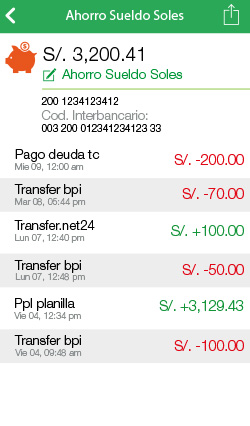
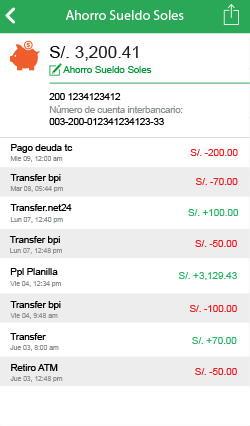
se implemetaron los botones para apple y se esta programando las flechas para regresar a la pantalla anterior

diff --git a/js/simulador.js b/js/simulador.js
@@ -1,5 +1,5 @@
 
-var  vista1, conteCuentas, frecuente, conteLogin, opeVista1, opeVista3, opeVista4, conteOperaciones, btnSiguiente, vista2, guia, guiaO, ahorroS, btnCuentas, btnMapa, btnCuentasOver, btnOperaciones, opeVista2, btnOperacionesOver, btnUs, conteMenu, vista3, pagosCyL, ubicacion1, ubicacion2, ubicacion3, btnUbicanos, btnSeguridad, btnComp, opeVista5, confirmarPago, vista4, btnCorreo, seg1, mandarEmail, animarMenu, conteUbicanos, btnTienda, btnNumCuentas, opt1, opt2, otd2, otd4, otd5, btnUbicanosOver, vistaT3, ahorroAsoles, aAmex, agilS, amex, transfDinero,btnSeguridadOver, btnPtajeta, btnTdinero1, btnTdinero2, btnTdinero5, otd3, btnTdinero3, btnTdinero3, conteSeguridad, btnSiguiente2, btnTdinero6, btnColor, btnColorsito, btnSiguienteSeguridad, otd6, btnTdinero7, opt4, opt5, otd1,prr;
+var  vista1, conteCuentas, frecuente, conteLogin, btnAtras1, opeVista1, opeVista3, opeVista4, conteOperaciones, btnSiguiente, vista2, guia, guiaO, ahorroS, btnCuentas, btnMapa, btnCuentasOver, btnOperaciones, opeVista2, btnOperacionesOver, btnUs, conteMenu, vista3, pagosCyL, ubicacion1, ubicacion2, ubicacion3, btnUbicanos, btnSeguridad, btnComp, opeVista5, confirmarPago, vista4, btnCorreo, seg1, mandarEmail, animarMenu, conteUbicanos, btnTienda, btnNumCuentas, opt1, opt2, otd2, otd4, otd5, btnUbicanosOver, vistaT3, ahorroAsoles, aAmex, agilS, amex, transfDinero,btnSeguridadOver, btnPtajeta, btnTdinero1, btnTdinero2, btnTdinero5, otd3, btnTdinero3, btnTdinero3, conteSeguridad, btnSiguiente2, btnTdinero6, btnColor, btnColorsito, btnSiguienteSeguridad, otd6, btnTdinero7, opt4, opt5, otd1,prr;
 var $os = 'apple';
 var path;
 var myGuia;
@@ -258,20 +258,27 @@ $(document).ready(function(){
 			 cursor: "pointer",
 			 x: 542, y: 60, scaleX: 120, scaleY: 20, alpha: alphaBotones
 			});
-			btnComp = new createjs.Bitmap(preload.getResult("btn")).set({
-			 cursor: "pointer",
-			 x: 715, y: 0, scaleX: 35, scaleY: 32, alpha: alphaBotones
-			});
+
+			if($os=='android'){
+				btnAtras1 = new createjs.Bitmap(preload.getResult("btn")).set({cursor: "pointer",x: 500, y:-50, scaleX: 30, scaleY: 32, alpha: alphaBotones});
+			}else{
+				btnAtras1 = new createjs.Bitmap(preload.getResult("btn")).set({cursor: "pointer",x: 500, y:0, scaleX: 30, scaleY: 32, alpha: alphaBotones});
+			}
+
+			btnComp = new createjs.Bitmap(preload.getResult("btn")).set({cursor: "pointer",x: 715, y:0, scaleX: 35, scaleY: 32, alpha: alphaBotones});
 
 			conteCuentas.addChild(vista3);
 			conteCuentas.addChild(btnNumCuentas);
 			conteCuentas.addChild(btnComp);
+			conteCuentas.addChild(btnAtras1);
 
 			conteCuentas.x = -500;
 			vista3.x = 500;
 
 			guia.x = 735; guia.y = 17; 
 			conteCuentas.addChild(guia);
+
+			
 
 			btnComp.on("click", cuentasEscena3);
 			btnNumCuentas.on("click", colores);
@@ -324,6 +331,10 @@ $(document).ready(function(){
 			 cursor: "pointer",
 			 x: 542, y: 70, scaleX: 80, scaleY: 20, alpha: alphaBotones
 			});
+			btnAtras2 = new createjs.Bitmap(preload.getResult("btn")).set({
+			 cursor: "pointer",
+			 x: 500, y: 0, scaleX: 30, scaleY: 32, alpha: alphaBotones
+			});
 			btnComp = new createjs.Bitmap(preload.getResult("btn")).set({
 			 cursor: "pointer",
 			 x: 715, y: 0, scaleX: 35, scaleY: 32, alpha: alphaBotones
@@ -332,6 +343,7 @@ $(document).ready(function(){
 			conteCuentas.addChild(vista3);
 			conteCuentas.addChild(btnNumCuentas);
 			conteCuentas.addChild(btnComp);
+			conteCuentas.addChild(btnAtras2);
 
 			conteCuentas.x = -500;
 			vista3.x = 500;
@@ -368,6 +380,10 @@ $(document).ready(function(){
 			 cursor: "pointer",
 			 x: 542, y: 70, scaleX: 150, scaleY: 20, alpha: alphaBotones
 			});
+			btnAtras3 = new createjs.Bitmap(preload.getResult("btn")).set({
+			 cursor: "pointer",
+			 x: 500, y: 0, scaleX: 30, scaleY: 32, alpha: alphaBotones
+			});
 			btnComp = new createjs.Bitmap(preload.getResult("btn")).set({
 			 cursor: "pointer",
 			 x: 715, y: 0, scaleX: 35, scaleY: 32, alpha: alphaBotones
@@ -376,6 +392,7 @@ $(document).ready(function(){
 			conteCuentas.addChild(vista3);
 			conteCuentas.addChild(btnNumCuentas);
 			conteCuentas.addChild(btnComp);
+			conteCuentas.addChild(btnAtras3);
 
 			conteCuentas.x = -500;
 			vista3.x = 500;
@@ -537,17 +554,16 @@ $(document).ready(function(){
 		function OperacionTarjeta3 () {
 			opt3 = new createjs.Bitmap(preload.getResult("vistaT3"));
 
-
-
 			if ($os == 'android') {
 				btnSiguiente2 = new createjs.Bitmap(preload.getResult("btn")).set({
 				 cursor: "pointer",
 				 x: 1520, y: 227, scaleX:210, scaleY:28, alpha: alphaBotones
 				});
 			} else{
+				console.log("estoy a ki ---")
 				btnSiguiente2 = new createjs.Bitmap(preload.getResult("btn")).set({
 				 cursor: "pointer",
-				 x: 1520, y: 320, scaleX:210, scaleY:35, alpha: alphaBotones
+				 x: 1525, y: 320, scaleX:205, scaleY:35, alpha: alphaBotones
 				});
 			};
 
@@ -565,10 +581,19 @@ $(document).ready(function(){
 
 		function OperacionTarjeta4(){
 			opt4 = new createjs.Bitmap(preload.getResult("vistaT4"));
-			btnSiguiente3 = new createjs.Bitmap(preload.getResult("btn")).set({
-			 cursor: "pointer",
-			 x: 1770, y: 351, scaleX:210, scaleY:28, alpha: alphaBotones
-			});
+
+			if ($os == 'android') {
+				btnSiguiente3 = new createjs.Bitmap(preload.getResult("btn")).set({
+				 cursor: "pointer",
+				 x: 1770, y: 351, scaleX:210, scaleY:28, alpha: alphaBotones
+				});
+			} else{
+				btnSiguiente3 = new createjs.Bitmap(preload.getResult("btn")).set({
+				 cursor: "pointer",
+				 x: 1780, y: 340, scaleX:205, scaleY:32, alpha: alphaBotones
+				});
+			};
+
 
 			guia.x = 1950; guia.y = 367;
 
@@ -602,11 +627,18 @@ $(document).ready(function(){
 			opeVista2.x = 250;
 			conteOperaciones.x = -250;
 
-			btnSiguiente = new createjs.Bitmap(preload.getResult("btn")).set({
-			 cursor: "pointer",
-			 x: 270, y: 346, scaleX:210, scaleY:32, alpha: alphaBotones
-			});
-			
+			if ($os == 'android') {
+				btnSiguiente = new createjs.Bitmap(preload.getResult("btn")).set({
+				 cursor: "pointer",
+				 x: 270, y: 346, scaleX:210, scaleY:32, alpha: alphaBotones
+				});
+			} else{
+				btnSiguiente = new createjs.Bitmap(preload.getResult("btn")).set({
+				 cursor: "pointer",
+				 x: 275, y: 340, scaleX:198, scaleY:32, alpha: alphaBotones
+				});
+			};
+
 			conteOperaciones.addChild(btnSiguiente);
 
 			guia.x = 450; guia.y = 363;
@@ -620,10 +652,17 @@ $(document).ready(function(){
 			opeVista3 = new createjs.Bitmap(preload.getResult("opeVista3"));
 			conteOperaciones.addChild(opeVista3);
 
-			ahorroS = new createjs.Bitmap(preload.getResult("btn")).set({
-			 cursor: "pointer",
-			 x: 505, y: 60, scaleX: 233, scaleY: 44, alpha: alphaBotones
-			});
+			if ($os == 'android') {
+				ahorroS = new createjs.Bitmap(preload.getResult("btn")).set({
+				 cursor: "pointer",
+				 x: 505, y: 60, scaleX: 233, scaleY: 44, alpha: alphaBotones
+				});
+			} else{
+				ahorroS = new createjs.Bitmap(preload.getResult("btn")).set({
+				 cursor: "pointer",
+				 x: 505, y: 65, scaleX: 233, scaleY: 44, alpha: alphaBotones
+				});
+			};
 
 			conteOperaciones.addChild(ahorroS);
 			
@@ -641,10 +680,19 @@ $(document).ready(function(){
 			opeVista4 = new createjs.Bitmap(preload.getResult("opeVista4"));
 			conteOperaciones.addChild(opeVista4);
 
-			confirmarPago = new createjs.Bitmap(preload.getResult("btn")).set({
-			 cursor: "pointer",
-			 x: 520, y: 352, scaleX: 210, scaleY: 28, alpha: alphaBotones
-			});
+			if ($os == 'android') {
+				confirmarPago = new createjs.Bitmap(preload.getResult("btn")).set({
+				 cursor: "pointer",
+				 x: 520, y: 352, scaleX: 210, scaleY: 28, alpha: alphaBotones
+				});
+			} else{
+				confirmarPago = new createjs.Bitmap(preload.getResult("btn")).set({
+				 cursor: "pointer",
+				 x: 530, y: 340, scaleX: 190, scaleY: 28, alpha: alphaBotones
+				});
+			};
+
+			
 			conteOperaciones.addChild(confirmarPago);
 
 			opeVista4.x = 500;
@@ -701,14 +749,26 @@ $(document).ready(function(){
 
     	function operacionesTransferir1 () {
     		otd1 = new createjs.Bitmap(preload.getResult("vistaTdinero1"));
-			btnTdinero1 = new createjs.Bitmap(preload.getResult("btn")).set({
-			cursor: "pointer",
-			x: 2250, y: 58,scaleX: 250, scaleY: 49, alpha: alphaBotones
-			});
-			btnTdinero2 = new createjs.Bitmap(preload.getResult("btn")).set({
-			cursor: "pointer",
-			x: 2250, y: 110,scaleX: 250, scaleY: 49, alpha: alphaBotones
-			});
+
+    		if ($os == 'android') {
+				btnTdinero1 = new createjs.Bitmap(preload.getResult("btn")).set({
+				cursor: "pointer",
+				x: 2250, y: 58,scaleX: 250, scaleY: 49, alpha: alphaBotones
+				});
+				btnTdinero2 = new createjs.Bitmap(preload.getResult("btn")).set({
+				cursor: "pointer",
+				x: 2250, y: 150,scaleX: 250, scaleY: 49, alpha: alphaBotones
+				});
+			} else{
+				btnTdinero1 = new createjs.Bitmap(preload.getResult("btn")).set({
+				cursor: "pointer",
+				x: 2250, y: 70,scaleX: 250, scaleY: 49, alpha: alphaBotones
+				});
+				btnTdinero2 = new createjs.Bitmap(preload.getResult("btn")).set({
+				cursor: "pointer",
+				x: 2250, y: 130,scaleX: 250, scaleY: 49, alpha: alphaBotones
+				});
+			};
 			
     		otd1.x = 2250;
 			conteOperaciones.x = -2250;
@@ -724,14 +784,26 @@ $(document).ready(function(){
 
     	function operacionesTransferir2 () {
     		otd2 = new createjs.Bitmap(preload.getResult("vistaTdinero2"));
-			btnTdinero3 = new createjs.Bitmap(preload.getResult("btn")).set({
-			cursor: "pointer",
-			x: 2500, y: 56,scaleX: 250, scaleY: 45, alpha: alphaBotones
-			});
-			btnTdinero4 = new createjs.Bitmap(preload.getResult("btn")).set({
-			cursor: "pointer",
-			x: 2500, y: 115,scaleX: 250, scaleY: 47, alpha: alphaBotones
-			});
+
+    		if ($os == 'android') {
+				btnTdinero3 = new createjs.Bitmap(preload.getResult("btn")).set({
+				cursor: "pointer",
+				x: 2500, y: 56,scaleX: 250, scaleY: 45, alpha: alphaBotones
+				});
+				btnTdinero4 = new createjs.Bitmap(preload.getResult("btn")).set({
+				cursor: "pointer",
+				x: 2500, y: 115,scaleX: 250, scaleY: 47, alpha: alphaBotones
+				});
+			} else{
+				btnTdinero3 = new createjs.Bitmap(preload.getResult("btn")).set({
+				cursor: "pointer",
+				x: 2500, y: 70,scaleX: 250, scaleY: 45, alpha: alphaBotones
+				});
+				btnTdinero4 = new createjs.Bitmap(preload.getResult("btn")).set({
+				cursor: "pointer",
+				x: 2500, y: 160,scaleX: 250, scaleY: 47, alpha: alphaBotones
+				});
+			};
 
     		otd2.x = 2500;
 			conteOperaciones.x = -2500;
@@ -765,14 +837,22 @@ $(document).ready(function(){
     	}
     	function operacionesTransferir4() {
     		otd4 = new createjs.Bitmap(preload.getResult("vistaTdinero4"));
-			btnTdinero6 = new createjs.Bitmap(preload.getResult("btn")).set({
-			cursor: "pointer",
-			x: 3020, y: 176,scaleX:210, scaleY:28, alpha: alphaBotones
-			});
+
+    		if ($os == 'android') {
+				btnTdinero6 = new createjs.Bitmap(preload.getResult("btn")).set({
+				cursor: "pointer",
+				x: 3020, y: 176,scaleX:210, scaleY:28, alpha: alphaBotones
+				});
+			} else{
+				btnTdinero6 = new createjs.Bitmap(preload.getResult("btn")).set({
+				cursor: "pointer",
+				x: 3028, y: 193,scaleX:200, scaleY:28, alpha: alphaBotones
+				});
+			};
 
     		otd4.x = 3000;
 			conteOperaciones.x = -3000;
-		    guia.x = 3200; guia.y = 190;
+		    guia.x = 3200; guia.y = 210;
 
 			conteOperaciones.addChild(otd4);
 			conteOperaciones.addChild(btnTdinero6);
@@ -783,14 +863,22 @@ $(document).ready(function(){
     	}
     	function operacionesTransferir5() {
     		otd5 = new createjs.Bitmap(preload.getResult("vistaTdinero5"));
-			btnTdinero7 = new createjs.Bitmap(preload.getResult("btn")).set({
-			cursor: "pointer",
-			x: 3270, y: 352,scaleX:210, scaleY:28, alpha: alphaBotones
-			});
+
+    		if ($os == 'android') {
+				btnTdinero7 = new createjs.Bitmap(preload.getResult("btn")).set({
+				cursor: "pointer",
+				x: 3270, y: 352,scaleX:210, scaleY:28, alpha: alphaBotones
+				});
+			} else{
+				btnTdinero7 = new createjs.Bitmap(preload.getResult("btn")).set({
+				cursor: "pointer",
+				x: 3278, y: 335,scaleX:200, scaleY:32, alpha: alphaBotones
+				});
+			};
 
     		otd5.x = 3250;
 			conteOperaciones.x = -3250;
-		    guia.x = 3450; guia.y = 366;
+		    guia.x = 3450; guia.y = 353;
 
 			conteOperaciones.addChild(otd5);
 			conteOperaciones.addChild(btnTdinero7);
